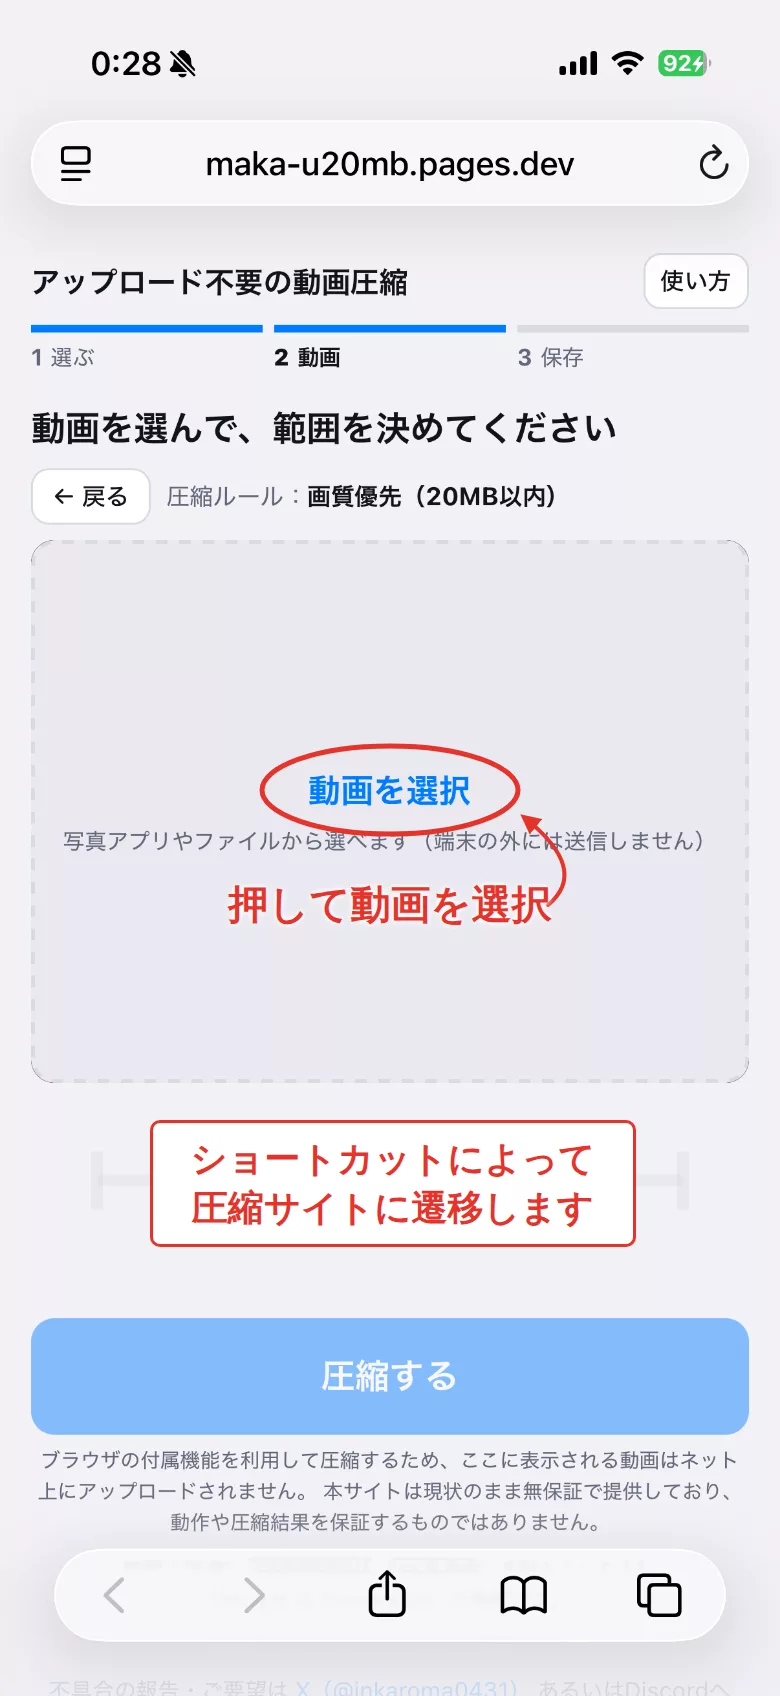
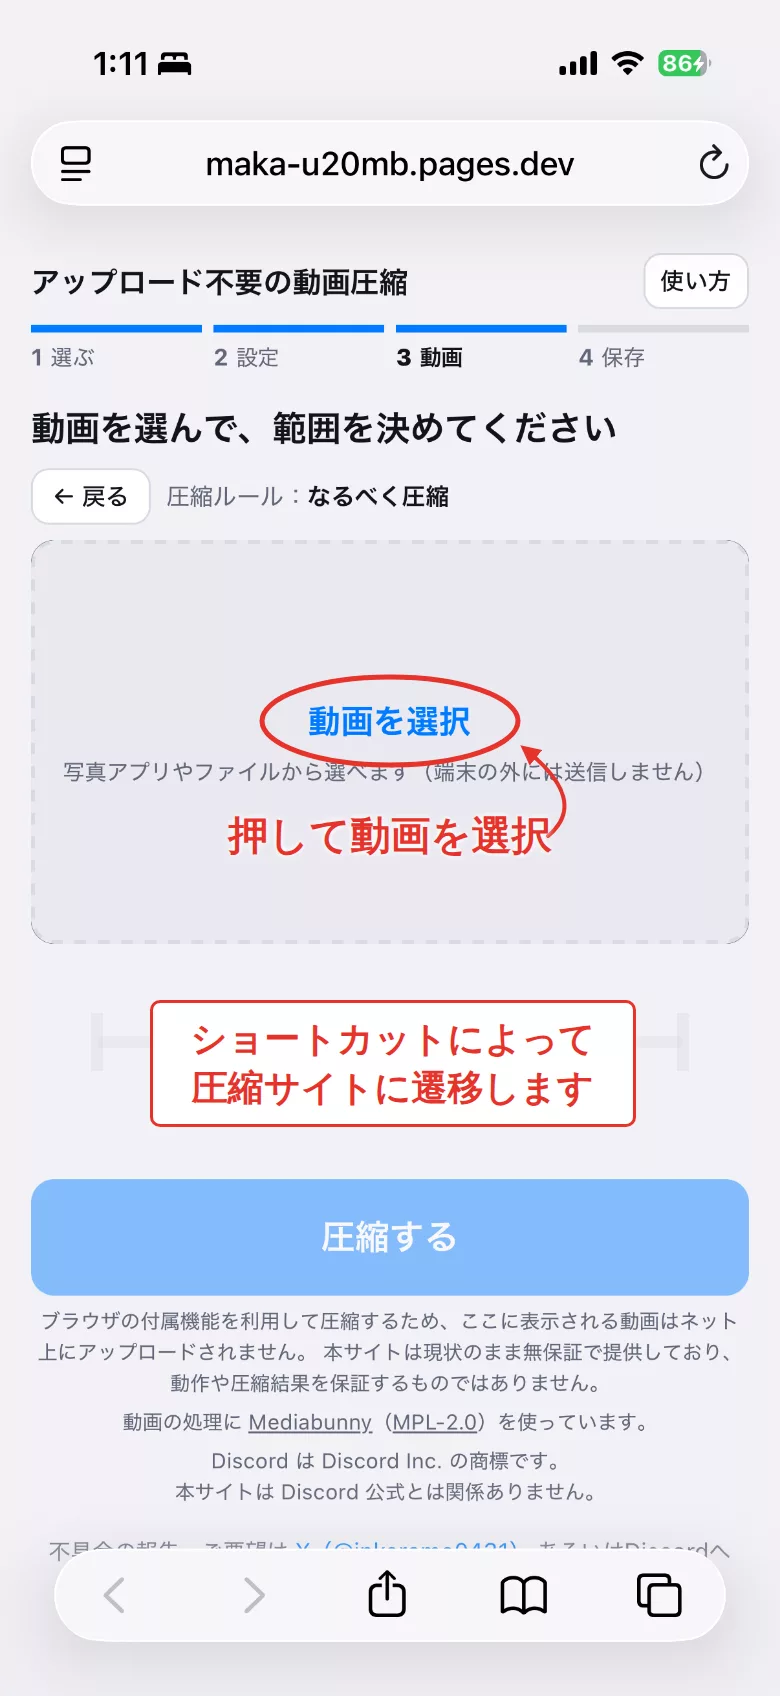
Help and shortcut page: retake screenshots with the 16:9 video box
- step-3/step-4 help images from new iPhone screenshots (annotation
  coordinates updated)
- shortcut page step 3 (sc-3) now shows the なるべく圧縮 rule

Claude-Session: https://claude.ai/code/session_01Kjx2uZRnB9w1XNEyRL87P8

diff --git a/tools/make-help-images.js b/tools/make-help-images.js
@@ -144,12 +144,12 @@ async function shootShot(page, name, crop, marks) {
     // 3. 範囲を決めて、圧縮する（実機のスクリーンショット）
     const rectOf = (at, l, t, r, b) => { const a = at(l, t), z = at(r, b); return { l: a.x, t: a.y, r: z.x, b: z.y }; };
     await shootShot(page, 'step-3', { top: 334, bottom: 2348 }, at => {   // 位置は元の画像（1206×2622）のもの
-      const left = at(148, 1623), right = at(1053, 1623), video = at(0, 1466), run = rectOf(at, 49, 2002, 1158, 2180);
+      const left = at(148, 1614), right = at(1053, 1614), video = at(0, 1458), run = rectOf(at, 49, 1993, 1158, 2172);
       return [
         { type: 'circle', x: left.x, y: left.y },
         { type: 'circle', x: right.x, y: right.y },
         { type: 'note', n: '③', text: '青い線で使う範囲を決める', x: 40, y: video.y - 92, to: [{ x: left.x, y: left.y - 24 }, { x: right.x, y: right.y - 24 }] },
-        { type: 'frame', rect: rectOf(at, 49, 1757, 1158, 1825), color: '#1f6feb', tag: 'お好みで画質を調整', pad: 6 },
+        { type: 'frame', rect: rectOf(at, 49, 1748, 1158, 1816), color: '#1f6feb', tag: 'お好みで画質を調整', pad: 6 },
         { type: 'frame', rect: run },
         { type: 'note', n: '④', text: '押して圧縮！', x: 120, y: run.b + 22, to: [{ x: 195, y: run.b + 6 }] }
       ];
@@ -157,7 +157,7 @@ async function shootShot(page, name, crop, marks) {
 
     // 4. 共有・保存（実機のスクリーンショット）
     await shootShot(page, 'step-4', { top: 334, bottom: 2348 }, at => {
-      const share = rectOf(at, 49, 1645, 1158, 1822);
+      const share = rectOf(at, 49, 1636, 1158, 1816);
       return [
         { type: 'frame', rect: share },
         { type: 'note', n: '⑤', text: 'Discordに送る・写真に保存', x: 40, y: share.b + 22, to: [{ x: 195, y: share.b + 6 }] }   // 結果の行を隠さないよう、ボタンの下に

diff --git a/public/js/constants.js b/public/js/constants.js
@@ -44,7 +44,7 @@ export var MIN_SHRINK = 0.03;
 export var KEYFRAME_INTERVAL = 2;             // 秒
 export var MIN_TRIM_LENGTH = 0.5;             // 秒
 export var AUDIO_DECODE_MAX_BYTES = 400 * MB;   // 互換モードで音声を扱うファイルサイズの上限
-export var APP_VERSION = '2026-10-07e';        // 診断情報に出す（どの版で起きたかを見分ける）
+export var APP_VERSION = '2026-10-07f';        // 診断情報に出す（どの版で起きたかを見分ける）
 export var CANCELLED = 'cancelled';
 export var SNAPSHOT_MAX_BYTES = 600 * MB;     // Android で動画をブラウザ内に写し取る上限（これより大きい動画は写さない）
 export var STALLED = 'stalled';

diff --git a/public/sw.js b/public/sw.js
@@ -9,7 +9,7 @@
 'use strict';
 
 var CACHE_PREFIX = 'video-compressor-under20mb-';   // このアプリのキャッシュ名の頭（同じドメインの別アプリのキャッシュは消さない）
-var CACHE = CACHE_PREFIX + 'v227';
+var CACHE = CACHE_PREFIX + 'v228';
 var NETWORK_TIMEOUT_MS = 3000;   // ネット優先のとき、ネットの応答をこれだけ待ってからキャッシュを使う
 
 // Cloudflare Pages のプレビュー（<ブランチ名>.<プロジェクト名>.pages.dev）と手元の確認環境だけネット優先にする
